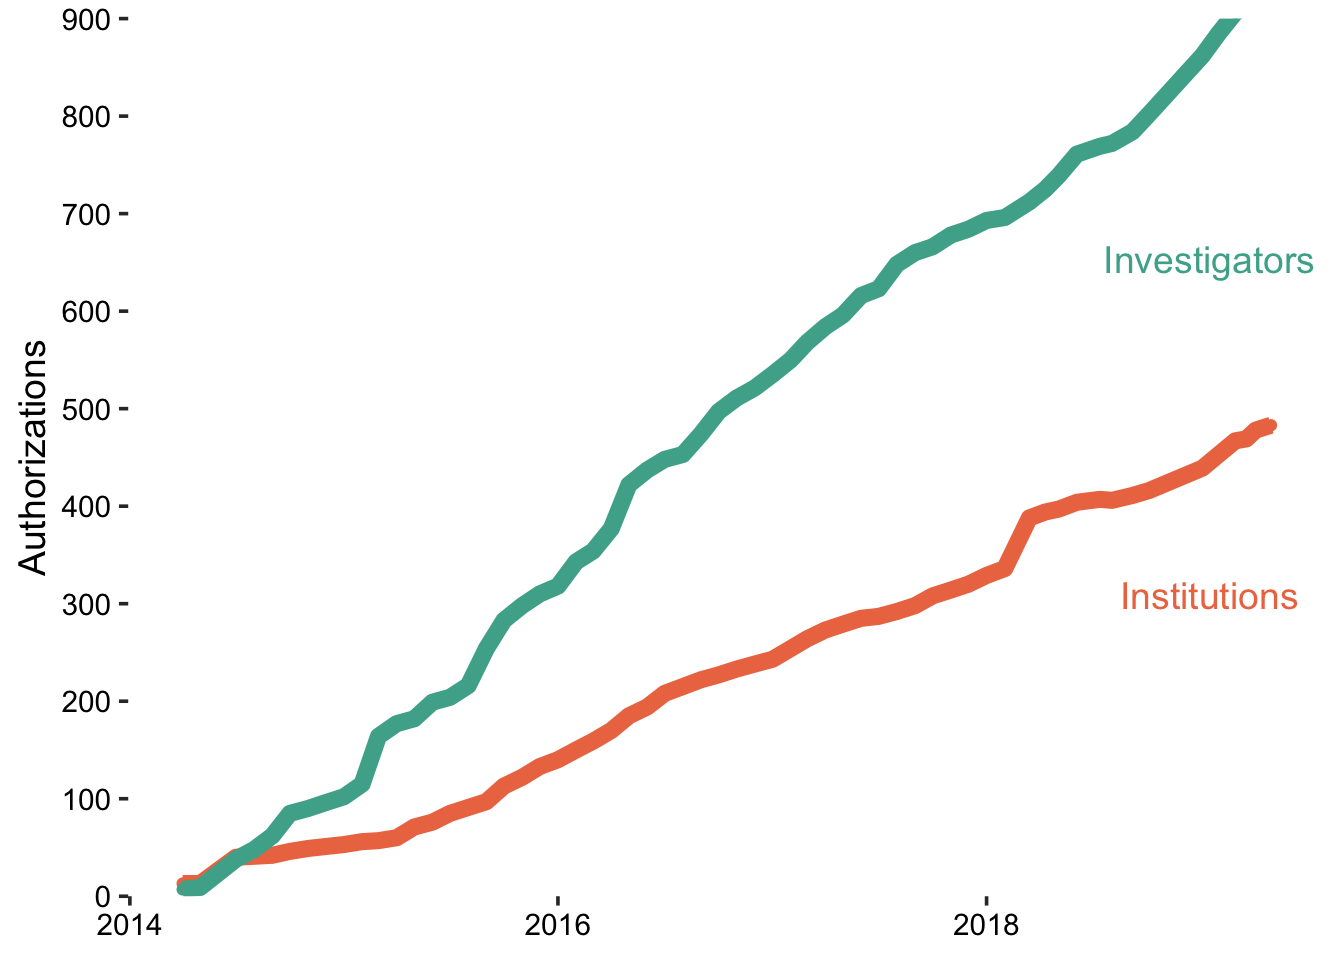
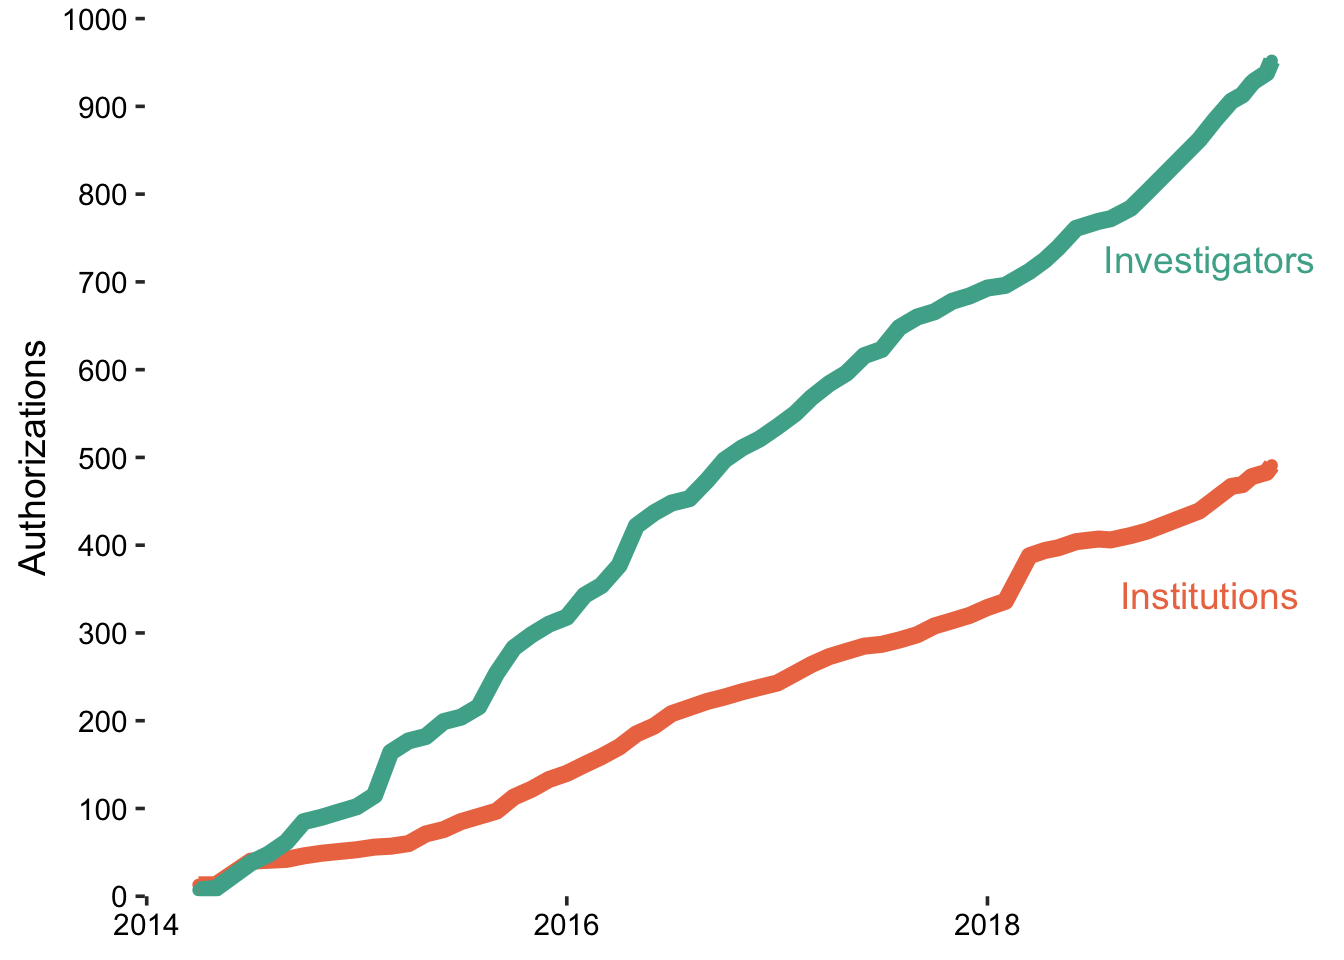
Weekly report 2019-05-23

diff --git a/databrary_weekly_rpt.html b/databrary_weekly_rpt.html
@@ -307,7 +307,7 @@ div.tocify {
 
 <h1 class="title toc-ignore">Databrary Weekly</h1>
 <h4 class="author">Rick O. Gilmore &amp; Andrea Seisler</h4>
-<h4 class="date">2019-05-10 09:07:03</h4>
+<h4 class="date">2019-05-23 17:24:01</h4>
 
 </div>
 
@@ -356,8 +356,8 @@ p &lt;- updated_stats %&gt;%
   ylab(&quot;Authorizations&quot;) +
   databrary_theme +
   # TODO: Make scale adapt to growth in maximum
-  scale_y_continuous(breaks = seq(0, 900, 100), expand = c(0,0)) +
-  coord_cartesian(ylim = c(0, 900))
+  scale_y_continuous(breaks = seq(0, 1000, 100), expand = c(0,0)) +
+  coord_cartesian(ylim = c(0, 1000))
 
 ggdraw(p) + 
   draw_label(&quot;Investigators&quot;, colour = color_teal, .9, .73) +
@@ -390,28 +390,22 @@ new_people %&gt;%
 </thead>
 <tbody>
 <tr class="odd">
-<td align="left">Radell</td>
-<td align="left">Milen</td>
-<td align="left">Niagara University</td>
-<td align="left"><a href="https://databrary.org/party/5047" class="uri">https://databrary.org/party/5047</a></td>
+<td align="left">Mills</td>
+<td align="left">Monique</td>
+<td align="left">University of Houston</td>
+<td align="left"><a href="https://databrary.org/party/5353" class="uri">https://databrary.org/party/5353</a></td>
 </tr>
 <tr class="even">
-<td align="left">Carvalho</td>
-<td align="left">Chrissie Ferreira de</td>
-<td align="left">Federal University of Santa Catarina</td>
-<td align="left"><a href="https://databrary.org/party/4766" class="uri">https://databrary.org/party/4766</a></td>
+<td align="left">Sharon</td>
+<td align="left">Tanya Lee</td>
+<td align="left">Mercer University</td>
+<td align="left"><a href="https://databrary.org/party/4517" class="uri">https://databrary.org/party/4517</a></td>
 </tr>
 <tr class="odd">
-<td align="left">Taylor</td>
-<td align="left">Marianne</td>
-<td align="left">Pacific Lutheran University</td>
-<td align="left"><a href="https://databrary.org/party/5303" class="uri">https://databrary.org/party/5303</a></td>
-</tr>
-<tr class="even">
-<td align="left">Mastergeorge</td>
-<td align="left">Ann</td>
-<td align="left">Texas Tech University</td>
-<td align="left"><a href="https://databrary.org/party/5356" class="uri">https://databrary.org/party/5356</a></td>
+<td align="left">Leech</td>
+<td align="left">Katie</td>
+<td align="left">University of Maryland</td>
+<td align="left"><a href="https://databrary.org/party/896" class="uri">https://databrary.org/party/896</a></td>
 </tr>
 </tbody>
 </table>
@@ -433,19 +427,14 @@ new_institutions %&gt;%
 </thead>
 <tbody>
 <tr class="odd">
-<td align="left">Federal University of Santa Catarina</td>
-<td align="left"><a href="https://ufsc.br/" class="uri">https://ufsc.br/</a></td>
-<td align="left"><a href="https://databrary.org/party/5410" class="uri">https://databrary.org/party/5410</a></td>
+<td align="left">Muppets University</td>
+<td align="left">NA</td>
+<td align="left"><a href="https://databrary.org/party/5417" class="uri">https://databrary.org/party/5417</a></td>
 </tr>
 <tr class="even">
-<td align="left">Pacific Lutheran University</td>
-<td align="left"><a href="https://www.plu.edu/" class="uri">https://www.plu.edu/</a></td>
-<td align="left"><a href="https://databrary.org/party/5408" class="uri">https://databrary.org/party/5408</a></td>
-</tr>
-<tr class="odd">
-<td align="left">Texas Tech University</td>
-<td align="left"><a href="https://www.ttu.edu/" class="uri">https://www.ttu.edu/</a></td>
-<td align="left"><a href="https://databrary.org/party/5407" class="uri">https://databrary.org/party/5407</a></td>
+<td align="left">Mercer University</td>
+<td align="left"><a href="https://www.mercer.edu/" class="uri">https://www.mercer.edu/</a></td>
+<td align="left"><a href="https://databrary.org/party/5297" class="uri">https://databrary.org/party/5297</a></td>
 </tr>
 </tbody>
 </table>
@@ -491,7 +480,7 @@ vols_plot &lt;- updated_vols %&gt;%
 
 ggdraw(vols_plot) + 
   draw_label(&quot;Unshared&quot;, colour = color_teal, .86, .88) +
-  draw_label(&quot;Shared&quot;, colour = color_orange, .84, .65)</code></pre>
+  draw_label(&quot;Shared&quot;, colour = color_orange, .84, .75)</code></pre>
 <p><img src="databrary_weekly_rpt_files/figure-html/db-vols-plot-1.png" width="672" /></p>
 <p>Next, we update the Google Sheet if <code>params$update_gs</code> is TRUE.</p>
 <pre class="r"><code>if (as.logical(params$update_gs)) {
@@ -533,76 +522,52 @@ unnested_vols %&gt;%
 </thead>
 <tbody>
 <tr class="odd">
-<td align="left">Holiday word learning in 12- to 19-month-olds</td>
-<td align="left">2019-05-09</td>
-<td align="left">Arunachalam, Sudha</td>
-<td align="left"><a href="https://nyu.databrary.org/volume/901" class="uri">https://nyu.databrary.org/volume/901</a></td>
+<td align="left">Storybook</td>
+<td align="left">2019-05-23</td>
+<td align="left">Foushee, Ruthe</td>
+<td align="left"><a href="https://nyu.databrary.org/volume/912" class="uri">https://nyu.databrary.org/volume/912</a></td>
 </tr>
 <tr class="even">
-<td align="left">Novel verb learning in 2- to 3.5-year-olds</td>
-<td align="left">2019-05-07</td>
-<td align="left">Arunachalam, Sudha</td>
-<td align="left"><a href="https://nyu.databrary.org/volume/900" class="uri">https://nyu.databrary.org/volume/900</a></td>
+<td align="left">Storybook</td>
+<td align="left">2019-05-23</td>
+<td align="left">Srinivasan, Mahesh</td>
+<td align="left"><a href="https://nyu.databrary.org/volume/912" class="uri">https://nyu.databrary.org/volume/912</a></td>
 </tr>
 <tr class="odd">
-<td align="left">NYU PLAY Project Pilots</td>
-<td align="left">2019-05-07</td>
-<td align="left">Adolph, Karen</td>
-<td align="left"><a href="https://nyu.databrary.org/volume/899" class="uri">https://nyu.databrary.org/volume/899</a></td>
+<td align="left">NewFAMS 18mo</td>
+<td align="left">2019-05-22</td>
+<td align="left">Raver, Cybele</td>
+<td align="left"><a href="https://nyu.databrary.org/volume/910" class="uri">https://nyu.databrary.org/volume/910</a></td>
 </tr>
 <tr class="even">
-<td align="left">NYU PLAY Project Pilots</td>
-<td align="left">2019-05-07</td>
-<td align="left">Tamis-LeMonda, Catherine</td>
-<td align="left"><a href="https://nyu.databrary.org/volume/899" class="uri">https://nyu.databrary.org/volume/899</a></td>
+<td align="left">Shape Up: Parent and Child Spatial Play</td>
+<td align="left">2019-05-15</td>
+<td align="left">Casasola, Marianella</td>
+<td align="left"><a href="https://nyu.databrary.org/volume/909" class="uri">https://nyu.databrary.org/volume/909</a></td>
 </tr>
 <tr class="odd">
-<td align="left">UoA_ManyBabies</td>
-<td align="left">2019-05-05</td>
-<td align="left">Henderson, Annette</td>
-<td align="left"><a href="https://nyu.databrary.org/volume/898" class="uri">https://nyu.databrary.org/volume/898</a></td>
+<td align="left">test3</td>
+<td align="left">2019-05-14</td>
+<td align="left">Frog, Kermit</td>
+<td align="left"><a href="https://nyu.databrary.org/volume/908" class="uri">https://nyu.databrary.org/volume/908</a></td>
 </tr>
 <tr class="even">
-<td align="left">Quantifying sources of variability in infancy research using the infant-directed speech preference</td>
-<td align="left">2019-05-02</td>
-<td align="left">Bergmann, Christina</td>
-<td align="left"><a href="https://nyu.databrary.org/volume/896" class="uri">https://nyu.databrary.org/volume/896</a></td>
+<td align="left">test2</td>
+<td align="left">2019-05-14</td>
+<td align="left">Frog, Kermit</td>
+<td align="left"><a href="https://nyu.databrary.org/volume/907" class="uri">https://nyu.databrary.org/volume/907</a></td>
 </tr>
 <tr class="odd">
-<td align="left">Quantifying sources of variability in infancy research using the infant-directed speech preference</td>
-<td align="left">2019-05-02</td>
-<td align="left">Soderstrom, Melanie</td>
-<td align="left"><a href="https://nyu.databrary.org/volume/896" class="uri">https://nyu.databrary.org/volume/896</a></td>
+<td align="left">Efficacy Judgments Stimuli Check</td>
+<td align="left">2019-05-14</td>
+<td align="left">Lillard, Angeline</td>
+<td align="left"><a href="https://nyu.databrary.org/volume/905" class="uri">https://nyu.databrary.org/volume/905</a></td>
 </tr>
 <tr class="even">
-<td align="left">Quantifying sources of variability in infancy research using the infant-directed speech preference</td>
-<td align="left">2019-05-02</td>
-<td align="left">Hamlin, Kiley</td>
-<td align="left"><a href="https://nyu.databrary.org/volume/896" class="uri">https://nyu.databrary.org/volume/896</a></td>
-</tr>
-<tr class="odd">
-<td align="left">Quantifying sources of variability in infancy research using the infant-directed speech preference</td>
-<td align="left">2019-05-02</td>
-<td align="left">Frank, Michael C.</td>
-<td align="left"><a href="https://nyu.databrary.org/volume/896" class="uri">https://nyu.databrary.org/volume/896</a></td>
-</tr>
-<tr class="even">
-<td align="left">Quantifying sources of variability in infancy research using the infant-directed speech preference</td>
-<td align="left">2019-05-02</td>
-<td align="left">Kline, Melissa</td>
-<td align="left"><a href="https://nyu.databrary.org/volume/896" class="uri">https://nyu.databrary.org/volume/896</a></td>
-</tr>
-<tr class="odd">
-<td align="left">Quantifying sources of variability in infancy research using the infant-directed speech preference</td>
-<td align="left">2019-05-02</td>
-<td align="left">Byers-Heinlein, Krista</td>
-<td align="left"><a href="https://nyu.databrary.org/volume/896" class="uri">https://nyu.databrary.org/volume/896</a></td>
-</tr>
-<tr class="even">
-<td align="left">Quantifying sources of variability in infancy research using the infant-directed speech preference</td>
-<td align="left">2019-05-02</td>
-<td align="left">Lew-Williams, Casey</td>
-<td align="left"><a href="https://nyu.databrary.org/volume/896" class="uri">https://nyu.databrary.org/volume/896</a></td>
+<td align="left">Efficacy Judgments</td>
+<td align="left">2019-05-14</td>
+<td align="left">Lillard, Angeline</td>
+<td align="left"><a href="https://nyu.databrary.org/volume/904" class="uri">https://nyu.databrary.org/volume/904</a></td>
 </tr>
 </tbody>
 </table>
@@ -641,7 +606,7 @@ video_stats &lt;- Reduce(function(x,y) merge(x, y, all = TRUE), video_data)</cod
 vol_info &lt;- lapply(vols, list_volume_metadata)
 vols_data &lt;- Reduce(function(x,y) merge(x, y, all = TRUE), vol_info)
 vols_joined &lt;- dplyr::left_join(vols_data, video_stats, by = c(&quot;vol_id&quot; = &quot;vol_id&quot;))</code></pre>
-<p>There are 123 volumes with DOIs (shared) that have sessions and at least one video as of today (2019-05-10 09:07:42).</p>
+<p>There are 123 volumes with DOIs (shared) that have sessions and at least one video as of today (2019-05-23 17:24:44).</p>
 <div id="number-of-videos-in-shared-volumes" class="section level2">
 <h2><span class="header-section-number">3.1</span> Number of videos in (shared) volumes</h2>
 <pre class="r"><code>vols_joined %&gt;%
